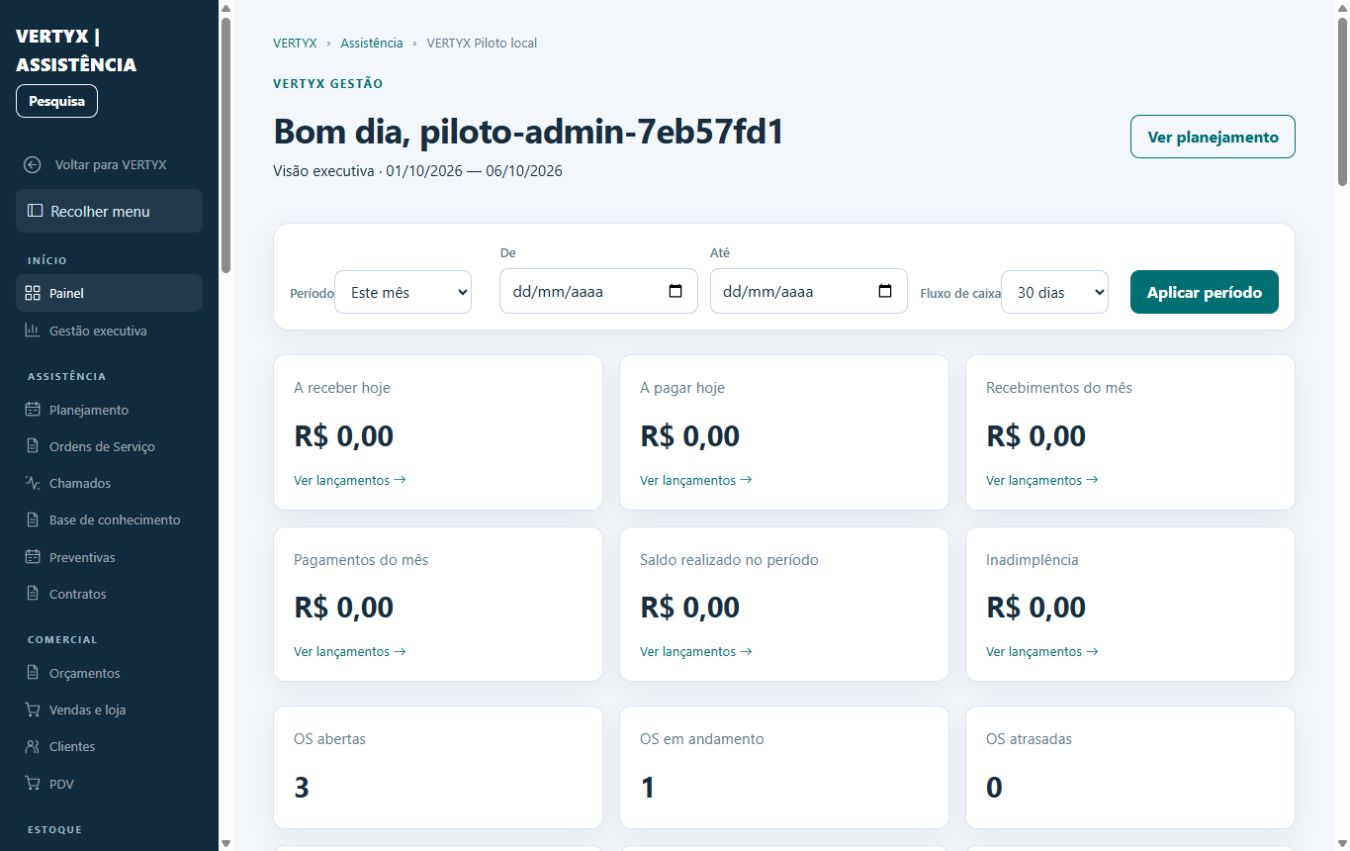
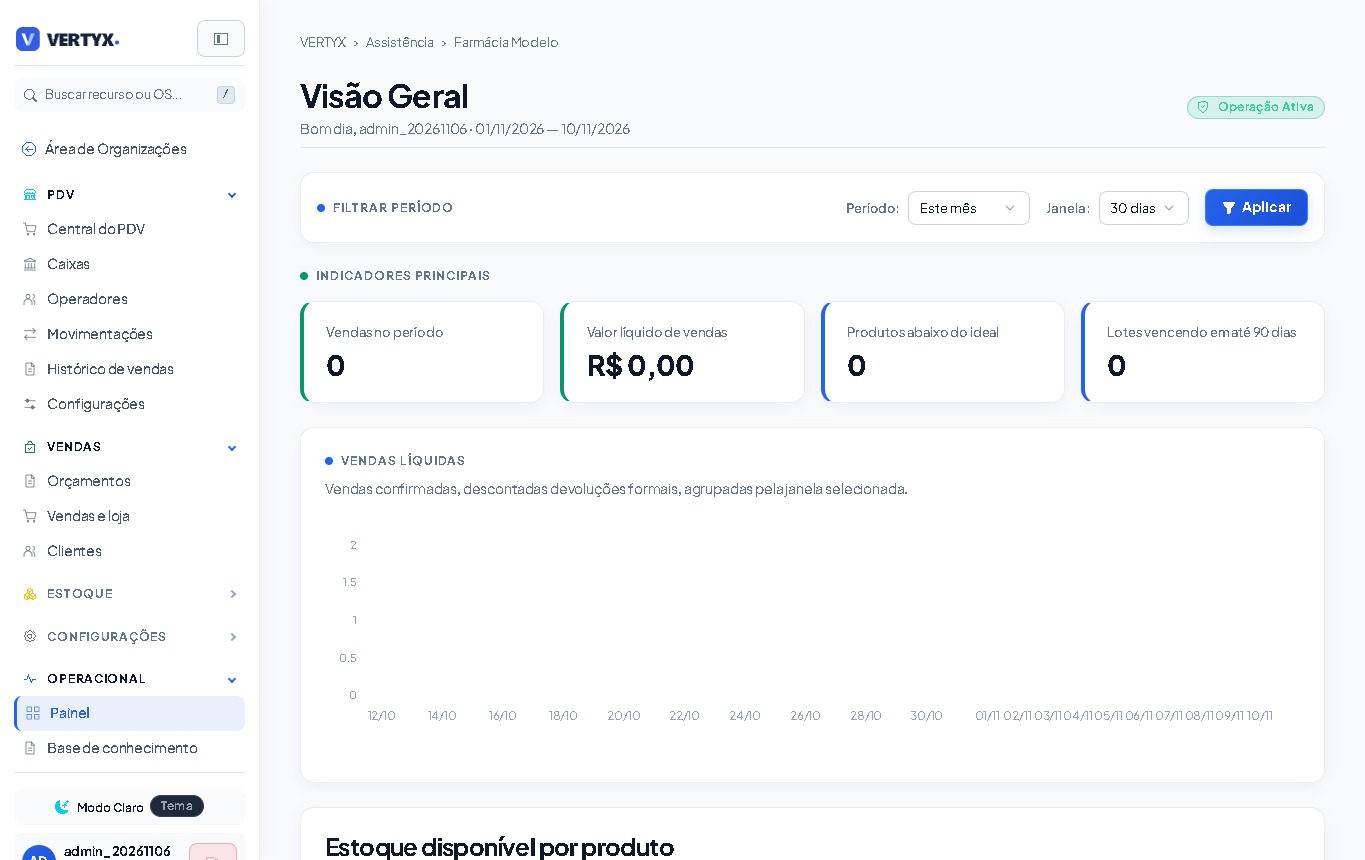
feat(commercial): sincronizar mockups de notebook e celular com modo escuro e claro

diff --git a/templates/commercial/home.html b/templates/commercial/home.html
@@ -1,6 +1,6 @@
 {% extends 'commercial/base.html' %}{% load static %}{% block content %}
 <section class="hero"><div class="container hero-grid"><div class="hero-copy"><span class="eyebrow pill"><span class="status-dot"></span> TECNOLOGIA PARA EMPRESAS E ÓRGÃOS PÚBLICOS.</span><h1>VERTYX<br><em>Tecnologia para transformar a gestão.</em></h1><p>Soluções de gestão para empresas e órgãos públicos, com experiências e recursos adequados a cada operação.</p><div class="hero-actions"><a class="button button-primary" href="#solucoes">Conhecer as soluções <svg><use href="#i-arrow"></use></svg></a><a class="button button-outline" href="{% url 'commercial:demo' %}">Solicitar demonstração</a></div><div class="hero-note"><svg><use href="#i-check"></use></svg> Uma plataforma modular, apresentada conforme os recursos disponíveis em cada produto e contrato.</div></div>
-<div class="product-visual"><div class="visual-orbit orbit-one"></div><div class="visual-orbit orbit-two"></div><div class="product-badge"><span class="status-dot"></span> Visão integrada, decisões melhores.</div><div class="laptop"><div class="laptop-screen"><img src="{% static 'commercial/erp-preview.jpg' %}" width="1365" height="860" alt="Dashboard Gestão do VERTYX em uma demonstração com dados sintéticos" fetchpriority="high"></div><div class="laptop-base"></div></div><div class="phone-device"><img src="{% static 'commercial/technician-preview.jpg' %}" width="390" height="844" alt="Home operacional do técnico no VERTYX" loading="eager"></div><p class="visual-caption">VERTYX no escritório e em campo.<br>Capturas do produto com dados de demonstração.</p></div></div></section>
+<div class="product-visual"><div class="visual-orbit orbit-one"></div><div class="visual-orbit orbit-two"></div><div class="product-badge"><span class="status-dot"></span> Visão integrada, decisões melhores.</div><div class="laptop"><div class="laptop-screen"><img class="preview-light" src="{% static 'commercial/erp-preview-light.jpg' %}?v=20261110_ui6" width="1365" height="860" alt="Dashboard Gestão do VERTYX no modo claro" fetchpriority="high"><img class="preview-dark" src="{% static 'commercial/erp-preview-dark.jpg' %}?v=20261110_ui6" width="1365" height="860" alt="Dashboard Gestão do VERTYX no modo escuro" fetchpriority="high"></div><div class="laptop-base"></div></div><div class="phone-device"><img class="preview-light" src="{% static 'commercial/technician-preview-light.jpg' %}?v=20261110_ui6" width="390" height="844" alt="Home operacional do técnico no VERTYX no modo claro" loading="eager"><img class="preview-dark" src="{% static 'commercial/technician-preview-dark.jpg' %}?v=20261110_ui6" width="390" height="844" alt="Home operacional do técnico no VERTYX no modo escuro" loading="eager"></div><p class="visual-caption">VERTYX no escritório e em campo.<br>Capturas do produto com dados de demonstração.</p></div></div></section>
 <div class="operation-strip"><div class="container"><span>FEITO PARA CONECTAR</span><strong>Atendimento</strong><span class="strip-plus">+</span><strong>Equipe</strong><span class="strip-plus">+</span><strong>Operação</strong><span class="strip-plus">+</span><strong>Gestão</strong></div></div>
 <section class="section" id="funcionalidades"><div class="container"><div class="section-heading"><span class="eyebrow">ERP EMPRESARIAL</span><h2>Menos sistemas desconectados.<br>Mais controle da operação.</h2><p>Assistência, comércio e gestão conectados, com recursos disponíveis conforme o produto e o contrato.</p></div><div class="feature-grid">{% for feature in features %}<article class="feature-card"><span class="icon-tile"><svg><use href="#i-{{ feature.icon }}"></use></svg></span><h3>{{ feature.name }}</h3><p>{{ feature.description }}</p></article>{% endfor %}</div></div></section>
 <section class="section solutions-section" id="solucoes"><div class="container"><div class="section-heading" id="sobre"><span class="eyebrow">SOLUÇÕES VERTYX</span><h2>Uma plataforma.<br>Diferentes necessidades.</h2><p>Produtos modulares para empresas e órgãos públicos. Cada cliente contrata os recursos adequados à sua operação.</p></div><div class="solutions-grid product-solutions"><article id="erp-empresarial"><span class="solution-number">01 / ERP EMPRESARIAL</span><h3>Gestão integrada<br>para empresas.</h3><p>Assistência Técnica, PDV, vendas, estoque, financeiro, contratos e ordens de serviço em uma operação conectada.</p><a href="#funcionalidades">Conhecer o ERP Empresarial <svg><use href="#i-arrow"></use></svg></a></article><article class="public-product-card"><span class="solution-number">02 / ERP GESTÃO PÚBLICA</span><h3>Gestão inteligente<br>para Prefeituras.</h3><p>Um núcleo para estrutura municipal, secretarias, departamentos, setores, unidades, usuários, permissões e indicadores.</p><a href="{% url 'rh_municipal_public:home' %}">Conhecer Gestão Pública <svg><use href="#i-arrow"></use></svg></a></article><article id="pwa"><span class="solution-number">03 / APLICATIVOS E PWA</span><h3>Acesso para cada<br>rotina de trabalho.</h3><p>Experiências próprias para Técnico, Vendedor e PDV, acessíveis em computador, tablet e celular conforme o produto.</p><a href="#recursos">Conhecer os recursos <svg><use href="#i-arrow"></use></svg></a></article></div></div></section>

diff --git a/static/css/commercial-pricing.css b/static/css/commercial-pricing.css
@@ -18,11 +18,29 @@
 .pricing-hero-description{font-size:17px;line-height:1.5;color:#edf1fc;margin-top:25px;max-width:495px}
 .pricing-action{background:var(--pricing-green);color:#fff;min-height:54px;padding:15px 30px;min-width:300px;font-size:16px;border-radius:7px;margin-top:31px;box-shadow:0 8px 22px #1019312b}
 .pricing-action:hover{background:var(--pricing-green-hover)}
-.pricing-product{padding:35px 17px 0;min-width:0}
-.pricing-product .laptop{margin:0;filter:drop-shadow(0 22px 20px #030c2038)}
-.pricing-product .laptop-screen{aspect-ratio:1.59;padding:7px;background:#121a29;border-color:#7b87a0;border-radius:11px 11px 3px 3px}
-.pricing-product .laptop-base{height:13px;margin:0 -16px}
-.pricing-product>p{font-size:10px;color:#d0d9ed;text-align:center;margin-top:19px;line-height:1.6}
+/* Sincronização dos mockups na página de planos */
+.preview-dark {
+  display: none !important;
+}
+.preview-light {
+  display: block !important;
+}
+[data-theme="dark"] .preview-dark {
+  display: block !important;
+}
+[data-theme="dark"] .preview-light {
+  display: none !important;
+}
+.pricing-product{position:relative;isolation:isolate;padding:25px 38px 45px 0;min-width:0}
+.pricing-product .laptop{width:100%;position:relative;margin:0;filter:drop-shadow(0 22px 20px #030c2038)}
+.pricing-product .laptop-screen{aspect-ratio:1.59;padding:7px;background:#121a29;border:1px solid #7b87a0;border-radius:11px 11px 3px 3px;overflow:hidden}
+.pricing-product .laptop-screen img{width:100%;height:100%;object-fit:cover;object-position:top}
+.pricing-product .laptop-base{height:13px;margin:0 -16px;background:linear-gradient(#e4e8f1,#bbc4d3);border-radius:1px 1px 25px 25px;position:relative}
+.pricing-product .laptop-base:after{content:"";position:absolute;width:70px;height:4px;background:#99a4b4;border-radius:0 0 8px 8px;left:calc(50% - 35px)}
+.pricing-product .phone-device{position:absolute;right:0;bottom:24px;width:130px;padding:6px;background:#192332;border:2px solid #41516b;border-radius:25px;box-shadow:0 22px 38px #1229473d;overflow:hidden;z-index:2}
+.pricing-product .phone-device:before{content:"";position:absolute;top:7px;left:34%;height:6px;width:32%;border-radius:0 0 8px 8px;background:#192332;z-index:1}
+.pricing-product .phone-device img{border-radius:17px;aspect-ratio:390/844;object-fit:cover;object-position:top;width:100%;height:100%}
+.pricing-product .visual-caption,.pricing-product>p{font-size:10px;color:#d0d9ed;text-align:center;margin-top:19px;line-height:1.6}
 .pricing-reference .pricing-section{padding-top:67px}
 :root:not([data-theme="dark"]) .pricing-reference .pricing-section,
 [data-theme="light"] .pricing-reference .pricing-section {
@@ -110,6 +128,8 @@
   .pricing-hero-description{font-size:15px}
   .pricing-action{min-width:0;width:100%;max-width:330px;font-size:14px;padding-inline:20px}
   .pricing-reference .plans-grid{gap:38px 22px}
+  .pricing-product{padding-right:25px}
+  .pricing-product .phone-device{width:115px;bottom:26px}
 }
 @media(max-width:767px){
   .pricing-hero{padding:40px 0 34px}
@@ -117,7 +137,8 @@
   .pricing-hero-title{font-size:38px;line-height:1.12}
   .pricing-hero-description{font-size:15px;line-height:1.65;margin-top:20px}
   .pricing-action{margin-top:24px;max-width:none;min-height:52px}
-  .pricing-product{padding:0 15px}
+  .pricing-product{padding:10px 25px 30px 0;max-width:520px;margin:0 auto}
+  .pricing-product .phone-device{width:100px;bottom:18px}
   .pricing-product>p{font-size:9px;margin-top:16px}
   .pricing-reference .pricing-section{padding-top:48px}
   .pricing-reference .pricing-section .section-heading h2{font-size:31px}
@@ -125,7 +146,11 @@
   .pricing-reference .plan-top{min-height:0}
   .pricing-reference .plan-price .custom-price{font-size:32px}
 }
-@media(max-width:360px){.pricing-hero-title{font-size:33px}.pricing-hero-description{font-size:14px}}
+@media(max-width:360px){
+  .pricing-hero-title{font-size:33px}
+  .pricing-hero-description{font-size:14px}
+  .pricing-product .phone-device{width:82px;bottom:14px}
+}
 
 /* ==========================================================================
    PRICING PAGE - DARK THEME OVERRIDES

diff --git a/templates/commercial/pricing.html b/templates/commercial/pricing.html
@@ -2,7 +2,7 @@
 {% load static %}
 {% block title %}Planos e preços — VERTYX{% endblock %}
 {% block body_class %}pricing-reference{% endblock %}
-{% block page_styles %}<link rel="stylesheet" href="{% static 'css/commercial-pricing.css' %}?v=20261110_ui5">{% endblock %}
+{% block page_styles %}<link rel="stylesheet" href="{% static 'css/commercial-pricing.css' %}?v=20261110_ui6">{% endblock %}
 {% block content %}
 <section class="pricing-hero" aria-labelledby="pricing-hero-title">
   <div class="container pricing-hero-grid">
@@ -14,10 +14,17 @@
     </div>
     <div class="pricing-product">
       <div class="laptop">
-        <div class="laptop-screen"><img src="{% static 'commercial/erp-preview.jpg' %}" width="1365" height="860" alt="Dashboard do VERTYX em uma demonstração com dados sintéticos"></div>
+        <div class="laptop-screen">
+          <img class="preview-light" src="{% static 'commercial/erp-preview-light.jpg' %}?v=20261110_ui6" width="1365" height="860" alt="Dashboard Gestão do VERTYX no modo claro" fetchpriority="high">
+          <img class="preview-dark" src="{% static 'commercial/erp-preview-dark.jpg' %}?v=20261110_ui6" width="1365" height="860" alt="Dashboard Gestão do VERTYX no modo escuro" fetchpriority="high">
+        </div>
         <div class="laptop-base" aria-hidden="true"></div>
       </div>
-      <p>O VERTYX na prática · captura com dados de demonstração.</p>
+      <div class="phone-device">
+        <img class="preview-light" src="{% static 'commercial/technician-preview-light.jpg' %}?v=20261110_ui6" width="390" height="844" alt="Home operacional no VERTYX no modo claro" loading="eager">
+        <img class="preview-dark" src="{% static 'commercial/technician-preview-dark.jpg' %}?v=20261110_ui6" width="390" height="844" alt="Home operacional no VERTYX no modo escuro" loading="eager">
+      </div>
+      <p class="visual-caption">VERTYX no escritório e em campo · capturas com dados de demonstração.</p>
     </div>
   </div>
 </section>

diff --git a/templates/commercial/base.html b/templates/commercial/base.html
@@ -12,7 +12,7 @@
     } catch (e) {}
   })();
 </script>
-<link rel="stylesheet" href="{% static 'css/commercial.css' %}?v=20261110_ui5"><script src="{% static 'js/commercial.js' %}?v=20261110_ui5" defer></script>
+<link rel="stylesheet" href="{% static 'css/commercial.css' %}?v=20261110_ui6"><script src="{% static 'js/commercial.js' %}?v=20261110_ui6" defer></script>
 {% block page_styles %}{% endblock %}
 </head><body class="commercial-site {% block body_class %}{% endblock %}">
 {% include 'commercial/icons.html' %}<a class="skip-link" href="#main">Pular para o conteúdo</a>

diff --git a/static/css/commercial.css b/static/css/commercial.css
@@ -671,3 +671,18 @@
   transition: transform 0.08s ease, box-shadow 0.08s ease !important;
 }
 
+/* Sincronização dos mockups (laptop e celular) com o tema claro / escuro */
+.preview-dark {
+  display: none !important;
+}
+.preview-light {
+  display: block !important;
+}
+[data-theme="dark"] .preview-dark {
+  display: block !important;
+}
+[data-theme="dark"] .preview-light {
+  display: none !important;
+}
+
+
